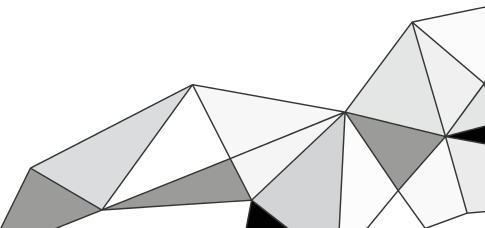
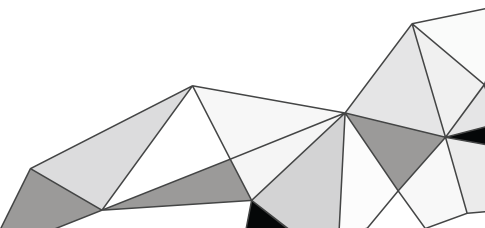
Tweaks to product box backgrounds

diff --git a/site/app/assets/stylesheets/site/_home.scss b/site/app/assets/stylesheets/site/_home.scss
@@ -200,10 +200,10 @@ body.home2 {
       &.active {
         background-color: #111;
         background-color: rgba(0,0,0,.45);
-        background-image: image-url('diagonals-top.png');
+        background-image: image-url('online-bg.png');
         background-position: right bottom;
         background-repeat: no-repeat;
-        background-size: 100%;
+        background-size: 100% auto;
         color: white;
         box-shadow: none;
         -moz-transition:
